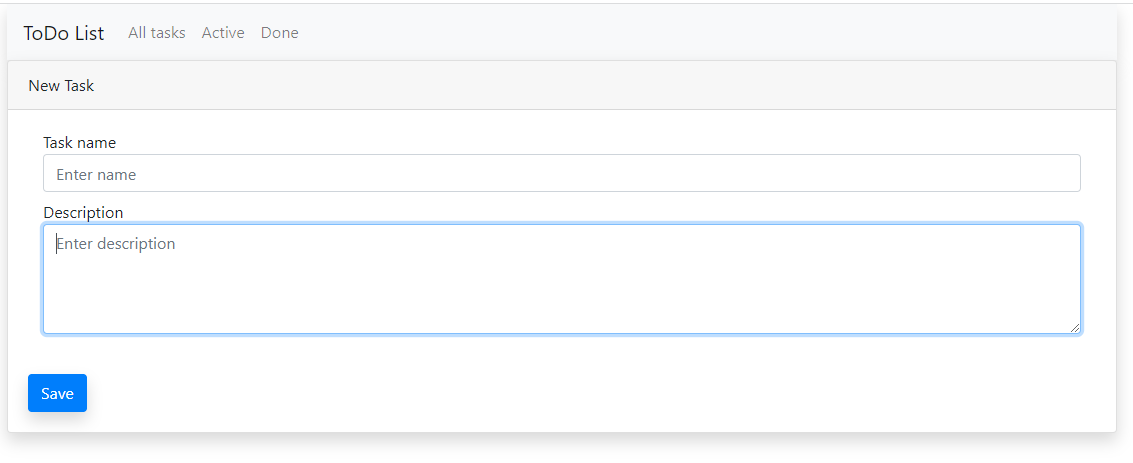
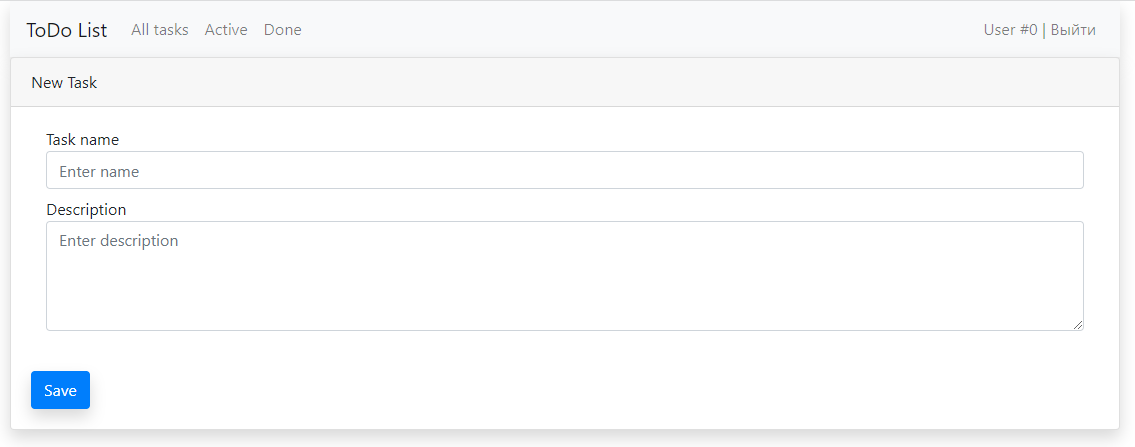
README

diff --git a/src/main/resources/templates/registration.html b/src/main/resources/templates/registration.html
@@ -34,7 +34,7 @@
             <div class="card-header">
                 Регистрация нового пользователя.
             </div>
-            <div class="card-body">
+            <div class="card-body shadow">
                 <form th:action="@{/registration}" method="POST">
                     <label for="name">Логин </label>
                     <div class="form-group row justify-content-center">

diff --git a/src/main/resources/templates/login.html b/src/main/resources/templates/login.html
@@ -35,7 +35,7 @@
             <div class="card-header">
                 Авторизация
             </div>
-            <div class="card-body">
+            <div class="card-body shadow">
                 <div th:if="${fail}" class="alert alert-danger" role="alert">
                     Логин или пароль введены неверно!
                 </div>

diff --git a/src/main/java/ru/job4j/todo/persistence/UserDBStore.java b/src/main/java/ru/job4j/todo/persistence/UserDBStore.java
@@ -33,7 +33,8 @@ public class UserDBStore {
     }
 
     public Optional<User> add(User user) {
-        return (Optional<User>) this.transaction(session -> session.merge(user));
+        User rsl = (User) this.transaction(session -> session.merge(user));
+        return rsl == null ? Optional.empty() : Optional.of(rsl);
     }
 
     public Optional<User> findUserByEmailAndPwd(String email, String password) {

diff --git a/README.md b/README.md
@@ -11,6 +11,11 @@ Web-приложения для постановки и отслеживания
 
 
 ## Использование
+Для начала работы в приложении необходимо ввести свои логин и пароль или зарегистрироваться. 
+![](images/login.png)
+![](images/reg.png)
+
+
 Главное окно приложения состоит из списка задач, каждая задача помечена меткой("Active" или "Done"). 
 
 ![](images/addThreeNewTasks.png)
